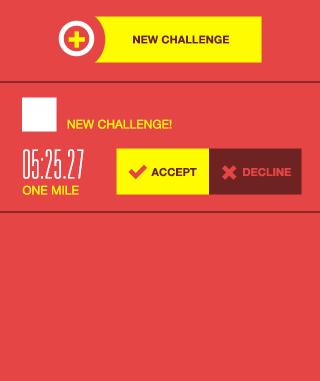
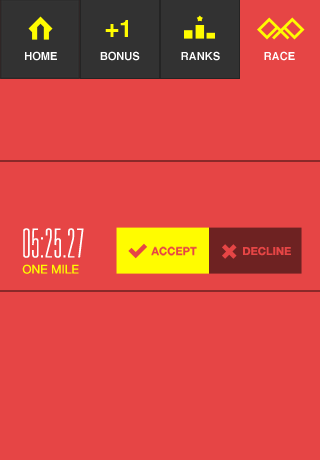
-

Changed region(s): [[0.0, 0.2021, 1.0, 0.6352], [0.0, 0.0, 0.9688, 0.1732]]

diff --git a/client/index.html b/client/index.html
@@ -14,8 +14,7 @@
     <body>
         <div id="fb-root"></div>
     
-        <!-- Home -->
-        <div data-role="page" id="HomePage">
+        <div data-role="page" id="LoginPage">
             <div data-role="content">
             <center>
                 <img src="LoginFacebook.png" alt="image" onClick="onFBLoginClick();"  /><br/>
@@ -25,27 +24,28 @@
             </div>
         </div>
 
+        <div data-role="page" id="HomePage">
+            <div data-role="content">
+            <center>
+                <div style="position:relative; width:320px;height:460px;">
+                    <img style="width: 320px; height: 460px" src="./images/home_bg.png">
+
+                    <div onClick="$.mobile.changePage('#ChallengeReceivedPage');" style='position:absolute;top:0px;left:240px;width:160px;height:160px;'></div>
+
+                </div>                
+            </center>
+            </div>
+        </div>
+
         <!-- Challenge ReceivedPage -->
         <div id="ChallengeReceivedPage" data-role="page">
-        <!--
-          <div data-role="navbar" class="nav-bar" data-iconpos="top">
-                <ul>
-                    <li><a href="#HomePage" class="">Home</a></li>
-                    <li><a href="#BonusPage" class="">Bonus</a></li>
-                    <li><a href="#RanksPage" class="">Ranks</a></li>
-                    <li><a href="#ChallengeReceivedPage" class="ui-btn-active ui-state-persist" data-icon="race-page"></a></li>                    
-                </ul>
-            </div>
-        -->
           <div data-role="content">
             <center>
                 <div style="position:relative; width:320px;height:460px;">
-                    <div style="margin:-4px;padding:0px;">
-                        <img style="width: 320px; height: 80px" src="./images/nav_race.png">
-                    </div>
-                    <div style="">
-                        <img style="width: 320px; height: 381px" src="./images/race_bg.png">
-                    </div>
+                    <img style="width: 320px; height: 460px" src="./images/race_bg.png">
+
+                    <div onClick="$.mobile.changePage('#HomePage');" style='position:absolute;top:0px;left:0px;width:160px;height:160px;'></div>
+                    
                     <div id="randomFriendPicture" style='position:absolute;top:178px;left:23px;'></div>
                     <div id="randomFriendName" style='position:absolute;top:173px;left:66px;' class="my-big-font"></div>
                     <div onClick="$.mobile.changePage('#ChallengeTimeLine');" style='position:absolute;top:228px;left:116px;width:94px;height:46px;'></div>
@@ -56,13 +56,15 @@
 
         <!-- Challenge TimeLine -->
         <div id="ChallengeTimeLine" data-role="page">
-          <div data-role="header">
-            <h1>Challenging!</h1>
-          </div>
           <div data-role="content">
             <center>
-                <p>You are challenging your friend!</p>
-                <canvas id="myCanvas" width="320" height="380" style="border:1px solid #000000;"> </canvas>
+                <div style="position:relative; width:320px;height:460px;">
+                    <img style="width: 320px; height: 460px" src="./images/racing_bg.png">
+
+                    <div onClick="$.mobile.changePage('#HomePage');" style='position:absolute;top:0px;left:0px;width:160px;height:160px;'></div>
+
+                    <canvas id="myCanvas" width="320" height="380" style="border:1px solid #000000;"></canvas>
+                </div>
             </center>
           </div>
         </div>
